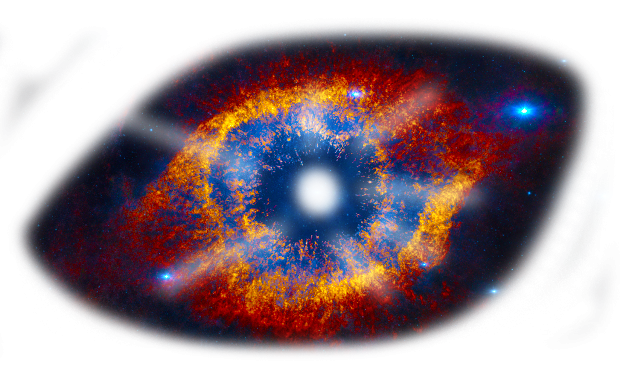
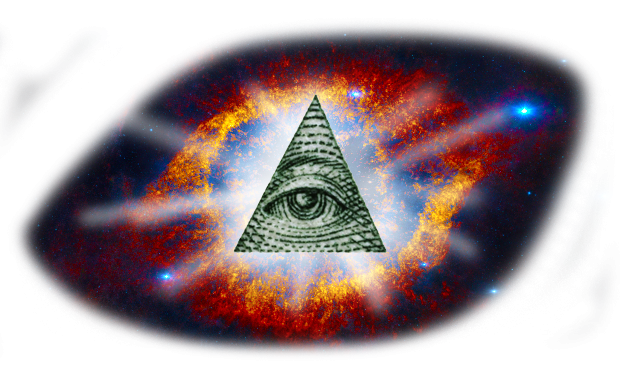
Image change on win works

Changed region(s): [[0.1226, 0.1789, 0.8274, 0.8645]]

diff --git a/assets/javascript/game.js b/assets/javascript/game.js
@@ -1,62 +1,85 @@
+//variables
 var wins = 0;
 var losses = 0;
 var guessesLeft = 9;
 var guesses = [];
 var computerChoice;
-var alphabet = 'abcdefghijklmnopqrstuvwxyz'.split('');
-var spooky = new Audio("./assets/sounds/spooky.mp3")
-var image = document.getElementsByClassName("image2");
 
+//thank .split to divide up string faster
+var alphabet = 'abcdefghijklmnopqrstuvwxyz'.split('');
+
+//very spooky sound that plays when win conditional is met
+var spooky = new Audio("./assets/sounds/spooky.mp3")
+
+//computer decides random letter here
 var randomLetter = function() {
-computerChoice = alphabet[Math.floor(Math.random() * alphabet.length)];
+    computerChoice = alphabet[Math.floor(Math.random() * alphabet.length)];
 };
 
+//counts down guess number
 var letterList = function() {
     document.getElementById("left").innerHTML = "Guesses Left: " + guessesLeft
 };
 
+//adds keys pushed and joins them with a comma
 var left = function() {
     document.getElementById("guesses").innerHTML = "Guesses so far: " + guesses.join(", ");
 };
 
+//reset function that refreshes appropriate areas once a win or loss is achieved
 function reset() {
     guessedLetters = [];
     guessesLeft = 9;
     guesses = [];
     randomLetter();
-    letterList()
-    left()
+    letterList();
+    left();
 };
 
-
+//where the magic happens, function starts when key is pressed
 document.onkeyup = function(event) {
 
+    //ensures that keys should work even during caps lock and checks if a valid (a-z) key is pushed
     var userGuess = String.fromCharCode(event.keyCode).toLowerCase();
     var check = alphabet.includes(userGuess);
 
+    //prevents guesses from going below zero when a non valid key was pressed
     if (guessesLeft === 0) {
         reset();
     }
 
+    //counds down guess and invokes functions
     guessesLeft--;
     guesses.push(userGuess);
     letterList();
     left();
-    randomLetter()
+    randomLetter();
 
+    //finger wagging message for when non valid key is pressed
     if (check === false) {
         alert("Not a valid key, use a - z. (I thought you were psychic?)");
         return false;
     } else if (check === true) {
         left()
     
-    
+    //win conditional
     if ((guessesLeft > 0) && (userGuess === computerChoice)) {
+        //changes image upon win, with timeouts
+        document.querySelector('.eye1').style.display = 'none' 
+        document.querySelector('.eye2').style.display = 'block' 
+        setTimeout(function() { 
+            document.querySelector('.eye1').style.display = 'block' 
+            document.querySelector('.eye2').style.display = 'none' 
+        }, 1200);
         wins++;
         spooky.play();
         document.getElementById("wins").innerHTML = "Wins:      " + wins;
-        alert("You're right, " + computerChoice.toUpperCase() + " was my letter. Your psychic ability should be... developed.");
+        setTimeout(function() {
+            alert("You're right, " + computerChoice.toUpperCase() + " was my letter. Your psychic ability should be... developed.")
+        }, 500);
         reset();
+
+    //losing conditional
     } else if (guessesLeft == 0) {
         losses++;
         document.getElementById("losses").innerHTML = "Losses:      " + losses;

diff --git a/index.html b/index.html
@@ -13,7 +13,7 @@
 <body>
 
     <img class="eye1" src="assets/images/psyeye.png" alt="I always feel like someone is watching me">
-    <!--<img class="eye2" src="assets/images/openpsyeye.png" alt="Who watches the Watchmen">-->
+    <img class="eye2" src="assets/images/openpsyeye.png" alt="Who watches the Watchmen" style="display: none;">
     
     <section class="container">
         <h1>Think You're Psychic? Maybe You Are...</h1>
